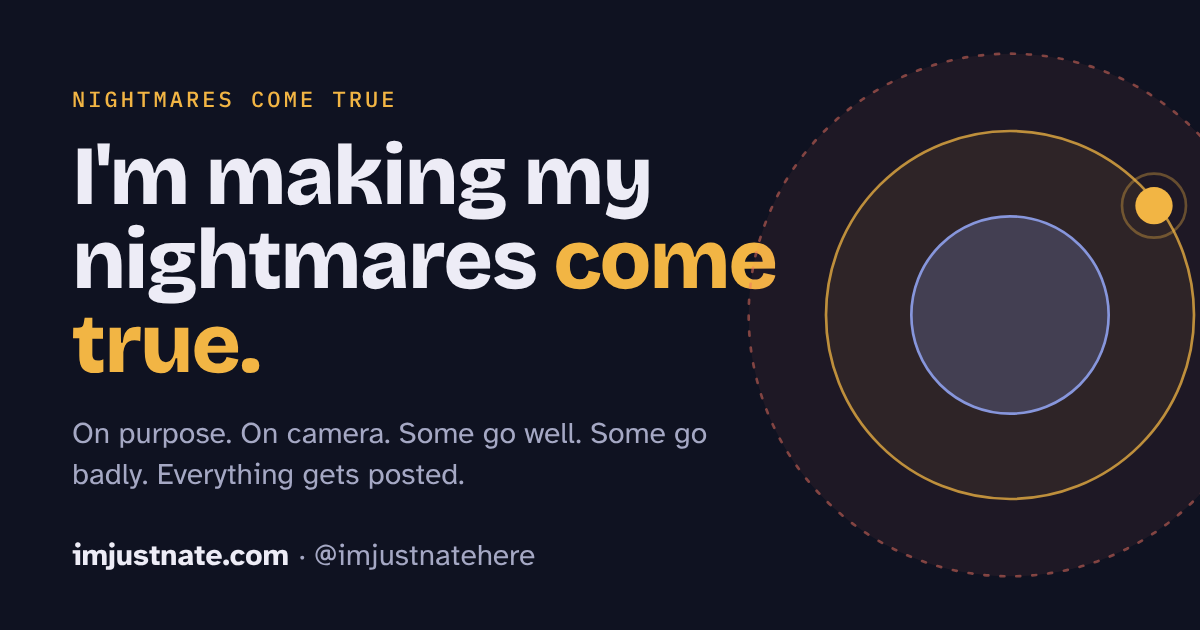
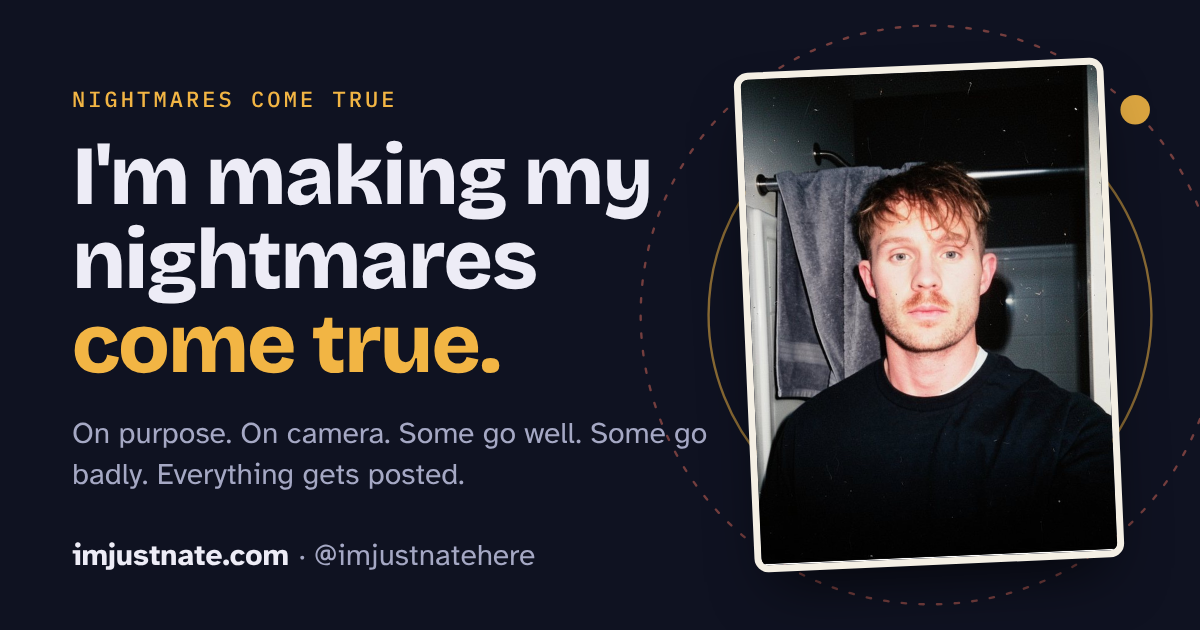
Home page: Nate's photo in the header and link preview
Claude-Session: https://claude.ai/code/session_01NiQ6GDAt6tC9wr7h3J54Bi

Changed region(s): [[0.4625, 0.0905, 1.0, 0.9349], [0.0617, 0.5127, 0.4317, 0.6032]]

diff --git a/index.html b/index.html
@@ -75,9 +75,13 @@ p { margin: 0; }
 .btn-primary { background: var(--accent); color: var(--on-accent); }
 .btn-ghost { color: var(--ink); border-color: var(--line); }
 @media (hover: hover) { .btn-primary:hover { filter: brightness(1.06); } .btn-ghost:hover { border-color: var(--accent); } }
-.rings { width: 100%; max-width: 420px; justify-self: center; aspect-ratio: 1; }
-.rings .dot { animation: drift 7s ease-in-out infinite alternate; transform-origin: 210px 210px; }
-@keyframes drift { from { transform: rotate(0deg); } to { transform: rotate(16deg); } }
+.portrait { position: relative; margin: 0; justify-self: center; width: 100%; max-width: 380px; padding: 28px; }
+.portrait .halo { position: absolute; left: 50%; top: 50%; width: 136%; height: auto; aspect-ratio: 1; transform: translate(-50%, -50%); overflow: visible; pointer-events: none; }
+.portrait .halo .dot { animation: drift 7s ease-in-out infinite alternate; transform-origin: 210px 210px; }
+@keyframes drift { from { transform: rotate(0deg); } to { transform: rotate(14deg); } }
+.portrait picture { position: relative; display: block; transform: rotate(-2deg); }
+.portrait img { display: block; width: 100%; height: auto; border-radius: 16px; border: 6px solid #f4efe4; box-shadow: 0 28px 60px -18px rgba(0, 0, 0, 0.65); background: #222; }
+.portrait figcaption { position: relative; margin-top: 14px; text-align: center; font: 500 0.8rem/1 var(--font-mono); letter-spacing: 0.1em; color: var(--muted); }
 
 /* Cards */
 .cards { display: grid; grid-template-columns: minmax(0, 1fr) minmax(0, 1fr); gap: 20px; padding-bottom: 56px; }
@@ -104,14 +108,22 @@ p { margin: 0; }
 .foot { border-top: 1px solid var(--line); padding-block: 24px 40px; display: flex; flex-wrap: wrap; justify-content: space-between; gap: 8px 20px; font-size: 0.875rem; color: var(--muted); }
 
 @media (max-width: 760px) {
-  .hero { grid-template-columns: minmax(0, 1fr); padding-block: 16px 40px; gap: 8px; }
-  .rings { order: -1; max-width: 220px; justify-self: start; margin-left: -10px; }
+  /* Phone: headline first, then photo beside the intro, so the main button stays near the top */
+  .hero { grid-template-columns: 124px minmax(0, 1fr); grid-template-areas: "eyebrow eyebrow" "title title" "photo lede" "actions actions"; padding-block: 12px 40px; gap: 0 18px; align-items: start; }
+  .hero-copy { display: contents; }
+  .hero .eyebrow { grid-area: eyebrow; }
+  .hero h1 { grid-area: title; margin-bottom: 20px; }
+  .hero .lede { grid-area: lede; margin-top: 0; font-size: 1.02rem; line-height: 1.5; }
+  .hero .hero-actions { grid-area: actions; }
+  .portrait { grid-area: photo; max-width: none; width: 124px; padding: 4px 0 0; justify-self: start; }
+  .portrait .halo, .portrait figcaption { display: none; }
+  .portrait img { border-width: 4px; border-radius: 10px; }
   .cards { grid-template-columns: minmax(0, 1fr); }
   .card { padding: 20px; }
   .hero-actions .btn { flex: 1 1 100%; }
   .nav a.hide-sm { display: none; }
 }
-@media (prefers-reduced-motion: reduce) { .rings .dot { animation: none; } }
+@media (prefers-reduced-motion: reduce) { .portrait .halo .dot { animation: none; } }
 </style>
 </head>
 <body>
@@ -130,7 +142,7 @@ p { margin: 0; }
 
   <main>
     <section class="hero" aria-labelledby="hero-h">
-      <div>
+      <div class="hero-copy">
         <p class="eyebrow">Nightmares Come True</p>
         <h1 id="hero-h">I'm making my nightmares <em>come true.</em> On purpose. On camera.</h1>
         <p class="lede">For most of my life, my go-to line was <b>“I'm just Nate. I can't do that.”</b> So now I find the things that genuinely scare me and do them anyway. Some go well. Some go badly. Everything gets posted.</p>
@@ -139,15 +151,18 @@ p { margin: 0; }
           <a class="btn btn-ghost" href="https://imjustnate.substack.com" rel="noopener">Read the full story</a>
         </div>
       </div>
-      <svg class="rings" viewBox="0 0 420 420" role="img" aria-label="Three rings: comfort in the middle, stretch around it, panic on the outside, with one dot out in the stretch">
-        <circle cx="210" cy="210" r="196" fill="rgba(239,116,98,0.06)" stroke="#ef7462" stroke-opacity=".45" stroke-width="2" stroke-dasharray="3 9" stroke-linecap="round"/>
-        <circle cx="210" cy="210" r="138" fill="rgba(242,181,68,0.07)" stroke="#f2b544" stroke-opacity=".7" stroke-width="2"/>
-        <circle cx="210" cy="210" r="74" fill="rgba(135,150,220,0.22)" stroke="#8796dc" stroke-width="2"/>
-        <text x="210" y="215" text-anchor="middle" font-family="IBM Plex Mono, monospace" font-size="13" letter-spacing="2" fill="#8796dc">COMFORT</text>
-        <text x="210" y="98" text-anchor="middle" font-family="IBM Plex Mono, monospace" font-size="12" letter-spacing="2" fill="#f2b544" fill-opacity=".85">STRETCH</text>
-        <text x="210" y="34" text-anchor="middle" font-family="IBM Plex Mono, monospace" font-size="12" letter-spacing="2" fill="#ef7462" fill-opacity=".8">PANIC</text>
-        <g class="dot"><circle cx="318" cy="128" r="13" fill="#f2b544"/><circle cx="318" cy="128" r="22" fill="none" stroke="#f2b544" stroke-opacity=".35" stroke-width="2"/></g>
-      </svg>
+      <figure class="portrait">
+        <svg class="halo" viewBox="0 0 420 420" aria-hidden="true">
+          <circle cx="210" cy="210" r="204" fill="none" stroke="#ef7462" stroke-opacity=".45" stroke-width="2" stroke-dasharray="3 9" stroke-linecap="round"/>
+          <circle cx="210" cy="210" r="150" fill="none" stroke="#f2b544" stroke-opacity=".6" stroke-width="2"/>
+          <g class="dot"><circle cx="377" cy="93" r="12" fill="#f2b544"/><circle cx="377" cy="93" r="21" fill="none" stroke="#f2b544" stroke-opacity=".35" stroke-width="2"/></g>
+        </svg>
+        <picture>
+          <source type="image/webp" srcset="/nate-600.webp 600w, /nate-1000.webp 1000w" sizes="(max-width: 760px) 62vw, 380px">
+          <img src="/nate-1000.jpg" srcset="/nate-600.jpg 600w, /nate-1000.jpg 1000w" sizes="(max-width: 760px) 62vw, 380px" width="1000" height="1363" alt="Nate in a flash-lit selfie, looking straight at the camera" fetchpriority="high">
+        </picture>
+        <figcaption>@imjustnatehere</figcaption>
+      </figure>
     </section>
 
     <section class="cards" aria-label="Start here">
